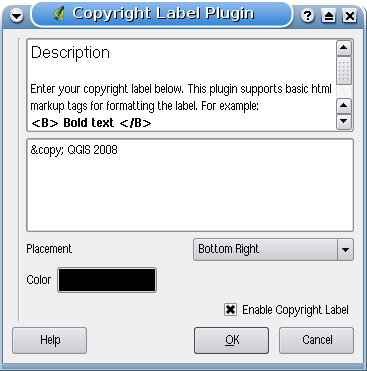
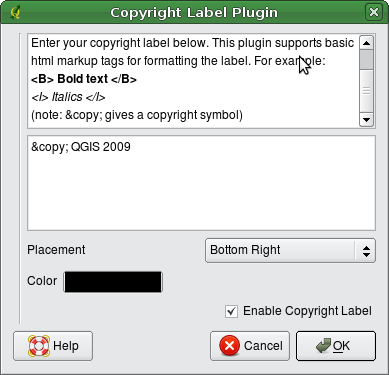
update to core plugins chapter, along with coordinate capture and decoration plugins sections
git-svn-id: https://svn.osgeo.org/qgis/docs/trunk@10678 c8812cc2-4d05-0410-92ff-de0c093fc19c

diff --git a/english_us/user_guide/plugins_coordinate_capture.tex b/english_us/user_guide/plugins_coordinate_capture.tex
@@ -7,10 +7,8 @@
 % \updatedisclaimer
 
 The coordinate capture plugin is easy to use and provides the 
-capability to display coordinates on the map canvas for two 
-selected Coordinate Reference Systems (CRS). You can click a 
-certain point and copy the coordinates to the clipboard or you 
-use the mouse tracking functionality 
+ability to display coordinates on the map canvas for two 
+selected Coordinate Reference Systems (CRS).
 
 \begin{figure}[ht]
    \begin{center}
@@ -21,21 +19,20 @@ use the mouse tracking functionality
 
 \begin{enumerate}
   \item Start QGIS, select \dropmenuopttwo{mActionOptions}{Project Properties} from 
-  the \mainmenuopt{Settings} menu and click on the \tab{Projection} tab. As an alternative you 
+  the \mainmenuopt{Settings} (KDE, Windows) or \mainmenuopt{File} (Gnome, OSX) menu 
+  and click on the \tab{Projection} tab. As an alternative you 
   you can also click on the \toolbtntwo{mIconProjectionEnabled}{projector} icon in the lower 
   right-hand corner of the statusbar.
-  \item Click on the \checkbox{Enable on the fly projection} checkbox and select the projected 
-  coordinate system \filename{"NAD27/Alaska Albers"} with EPSG 2964 (see also 
-  Section \ref{label_projections}).
-  \item Load the \filename{alaska.shp} vector layer from the qgis sample dataset.
+  \item Click on the \checkbox{Enable on the fly projection} checkbox and select a projected 
+  coordinate system of your choice (see also Section \ref{label_projections}).
   \item Load the coordinate capture plugin in the Plugin Manager (see Section 
-  \ref{sec:load_core_plugin}) and click on the \toolbtntwo{coordinate_capture}{Coordinate Capture} 
-  icon. The cordinate capture dialog appears as shown in Figure \ref{fig:coordinate_capture_dialog}.
+  \ref{sec:load_core_plugin}) and ensure that the dialog is visible by going to \mainmenuopt{View}
+   > \dropmenuopt{Panels} and ensuring that \checkbox{Coordinate Capture} is enabled. 
+   The cordinate capture dialog appears as shown in Figure \ref{fig:coordinate_capture_dialog}.
   \item Click on the \toolbtntwo{geographic}{Click to the select the CRS to use for coordinate display} 
-  icon and select Geographic Coordinate System \filename{WGS84} (EPSG 4326).
-  \item You can now click anywhere on the map canvas and the plugin will show the 
-  \filename{"NAD27/Alaska Albers"} and \filename{WGS84} coordinates for your selected points as shown in 
-  Figure \ref{fig:coordinate_capture_dialog}.
+  icon and select a different CRS from the one you selected above.
+  \item To start capturing coordinates, click on \button{Start capture}. You can now click anywhere 
+  on the map canvas and the plugin will show the coordinates for both of your selected CRS.
   \item To enable mouse coordinate tracking click the \toolbtntwo{tracking}{mouse tracking} icon.
   \item You can also copy selected coordinates to the clipboard.
 \end{enumerate}

diff --git a/english_us/user_guide/core_plugins.tex b/english_us/user_guide/core_plugins.tex
@@ -6,12 +6,9 @@
 % comment out the following line:
 %\updatedisclaimer
 
-QGIS currently contains 17 core plugins that can be loaded using the Plugin Manager.
+QGIS currently contains 19 core plugins that can be loaded using the Plugin Manager.
 Table \ref{tab:core_plugins} lists each of the core plugins along with a
-description of their purpose and the toolbar-icon.\footnote{The MapServer
-Export Plugin and the Plugin Installer Plugin are external Python Plugins,
-but they are part of the QGIS sources and automatically loaded and selectable 
-inside the QGIS Plugin Manager.}
+description of their purpose and the toolbar-icon.
 
 % minipage is needed to appear the footnote under the table
 % SH
@@ -31,9 +28,15 @@ inside the QGIS Plugin Manager.}
 \hline 
 \includegraphics[width=0.6cm]{copyright_label}
  & Copyright Label \index{plugins!copyright}& Draws a copyright label with information\\
-\hline 
+\hline
+\includegraphics[width=0.6cm]{diagram_overlay}
+ & Diagram Overlay \index{plugins!diagram}& Place charts (pie or bar) or proportional symbols over vector layers\\
+\hline
 \includegraphics[width=0.6cm]{dxf2shp_converter}
  & DXF2Shape Converter \index{plugins!DXF2Shape}& Converts from DXF to SHP file format\\
+\hline
+\includegraphics[width=0.6cm, height=0.6cm]{ftoolslogo}
+ & fTools \index{plugins!ftools}& A suite of analysis, geometry, geoprocessing, and research tools\\
 \hline
 \includegraphics[width=0.6cm]{gps_importer}
  & GPS Tools \index{plugins!gps}& Tools for loading and importing GPS data\\
@@ -43,9 +46,6 @@ inside the QGIS Plugin Manager.}
 \hline
 \includegraphics[width=0.6cm]{georeferencer}
  & Georeferencer \index{plugin!georeferencer} & Adding projection info to Rasterfiles\\
-\hline
-\includegraphics[width=0.6cm]{grid_maker}
- & Graticule Creator \index{plugins!graticule}& Create a latitude/longitude grid and save as a shapefile\\
 \hline
 \includegraphics[width=0.6cm]{interpolation}
 & Interpolation plugin \index{plugins!Interpolation}& Interpolation on base of vertices of a vector layer\\
@@ -59,6 +59,9 @@ inside the QGIS Plugin Manager.}
 \includegraphics[width=0.6cm]{ogr_converter}
  & OGR Layer Converter \index{plugins!OGR converter} & Translate vector
 layers between OGR suported formats\\
+\hline
+\includegraphics[width=0.6cm]{oracle_raster}
+ & Oracle Georaster \index{plugins!georaster}& Access Oracle Spatial GeoRasters\\
 \hline
 \includegraphics[width=0.6cm]{plugin_installer}
  & Plugin Installer \index{plugins!Plugin Installer} & Downloads and installs QGIS python plugins\\

diff --git a/english_us/user_guide/plugins_decorations.tex b/english_us/user_guide/plugins_decorations.tex
@@ -31,9 +31,8 @@ The title of this plugin is a bit misleading - you can add any random text to th
 \item Click \button{OK} 
 \end{enumerate}
 
-In the example above, the first line is in bold, the second (created using
-\textless br\textgreater) contains a copyright symbol, followed by our company name in
-italics.
+In the example above (default) places a copyright symbol followed by the date in the 
+lower right hand corner of the map canvas.
 
 \subsubsection{North Arrow Plugin}
 
